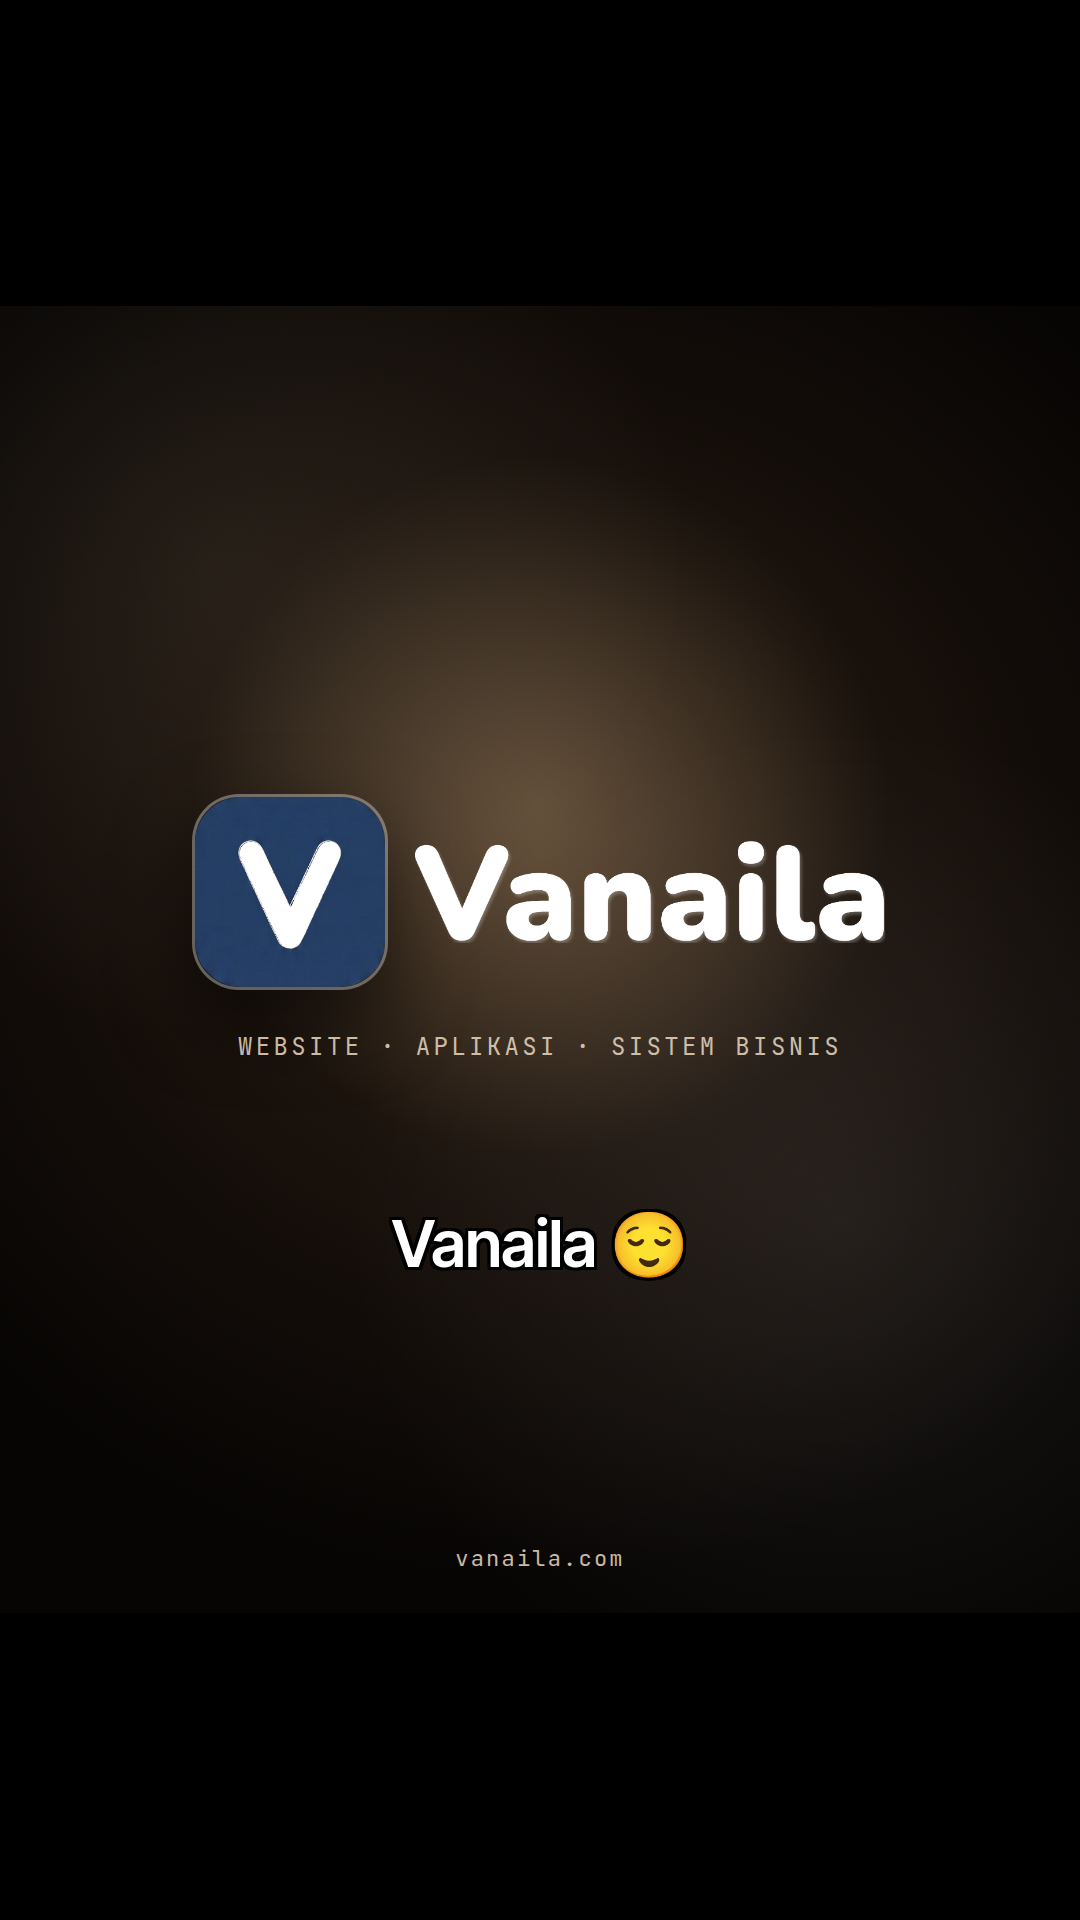
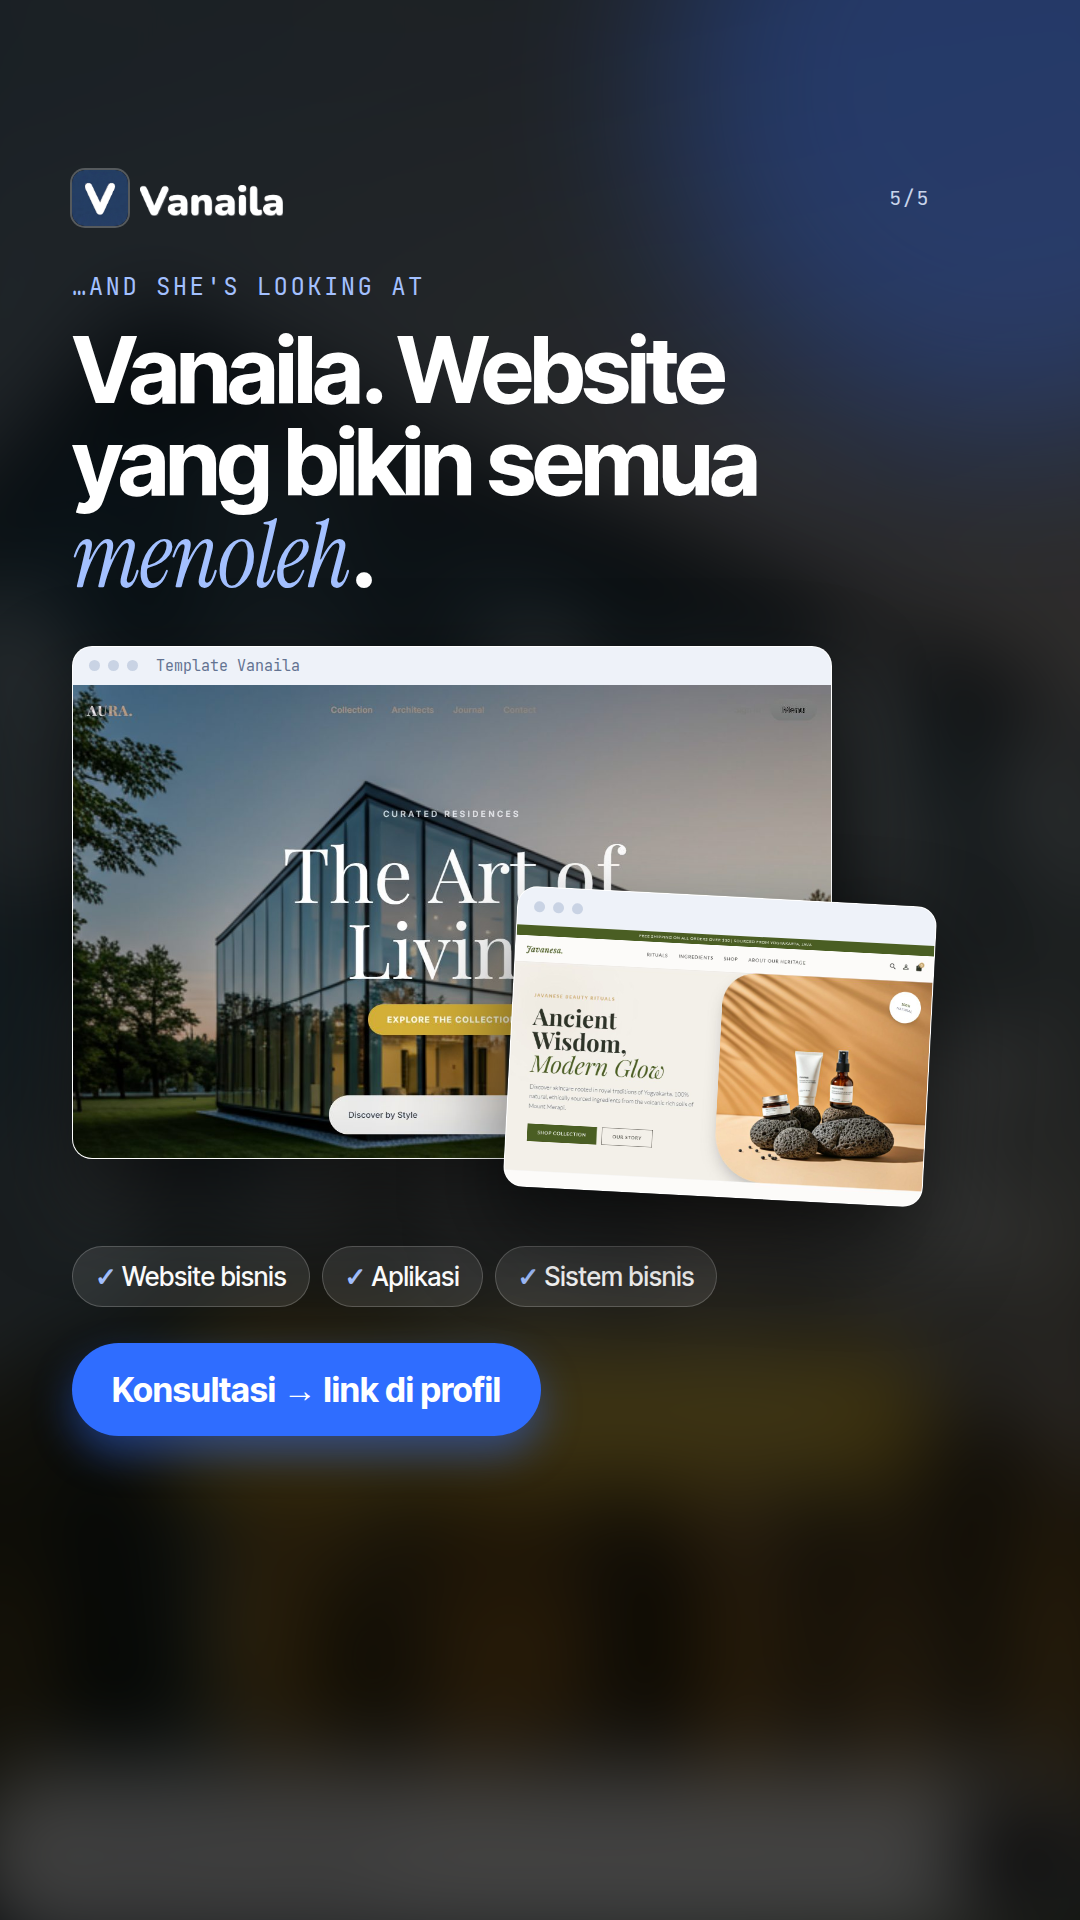
docs(marketing): restyle meme punchline slide in Vanaila brand style

diff --git a/docs/marketing/templates/meme-01-in-this-picture-s5.html b/docs/marketing/templates/meme-01-in-this-picture-s5.html
@@ -1,20 +1,39 @@
-<!doctype html><html><head><meta charset="utf-8"><meta name="size" content="1080x1920"><link rel="stylesheet" href="_brand.css"><style>
-html,body{width:1080px;height:1920px;background:#000}
-.frame{position:absolute;left:0;top:306px;width:1080px;height:1307px;overflow:hidden;
- background:radial-gradient(ellipse 70% 55% at 50% 42%,#3a2a1c 0%,#1a120c 45%,#070504 100%);display:flex;flex-direction:column;align-items:center;justify-content:center}
-.haze{position:absolute;inset:0;background:radial-gradient(circle at 78% 70%,rgba(255,255,255,.08),transparent 40%),radial-gradient(circle at 20% 20%,rgba(255,230,190,.08),transparent 35%)}
-.spot{position:absolute;width:760px;height:760px;border-radius:50%;background:radial-gradient(circle,rgba(255,220,170,.22),transparent 65%);top:120px}
-.logo{position:relative;display:flex;align-items:center;gap:30px;margin-top:-60px}
-.logo .lm{width:190px;height:190px;background:url(../assets/brand/mark.png) center/contain no-repeat;border-radius:44px;box-shadow:0 0 0 3px rgba(255,255,255,.35),0 30px 80px rgba(0,0,0,.6)}
-.logo .lw{width:470px;height:102px;background:url(../assets/brand/wordmark-white.png) left center/contain no-repeat}
-.tag{position:relative;margin-top:44px;font-family:'JetBrains Mono',monospace;font-size:24px;letter-spacing:.14em;text-transform:uppercase;color:#e9d9c2;opacity:.85}
-.meme{position:absolute;left:0;right:0;top:560px;text-align:center;font-family:'Inter Tight',sans-serif;font-weight:600;font-size:64px;color:#fff;letter-spacing:-.01em;
- text-shadow:-3px -3px 0 #000,3px -3px 0 #000,-3px 3px 0 #000,3px 3px 0 #000,0 3px 0 #000,0 -3px 0 #000,3px 0 0 #000,-3px 0 0 #000}
-.url{position:absolute;bottom:40px;font-family:'JetBrains Mono',monospace;font-size:22px;color:#cbb9a0;letter-spacing:.1em}
+<!doctype html><html lang="id"><head><meta charset="utf-8"><meta name="size" content="1080x1920"><link rel="stylesheet" href="_brand.css"><style>
+html,body{width:1080px;height:1920px}
+.post{width:1080px;height:1920px;padding:170px 150px 440px 72px;background:linear-gradient(170deg,#0e1a30 0%,#0b1426 55%,#132a57 100%);color:#fff}
+.post>.bgimg{position:absolute;inset:-40px;background:url('../../../public/templates-static/previews/aura-property.jpg') center/cover;filter:blur(40px) brightness(.28) saturate(1.1);transform:scale(1.1);z-index:0}
+.brand .lw{background-image:url(../assets/brand/wordmark-white.png)}
+.brand .lm{box-shadow:0 0 0 2px rgba(255,255,255,.25)}
+.body{flex:1;display:flex;flex-direction:column;justify-content:center}
+.k{font-family:'JetBrains Mono',monospace;font-size:24px;letter-spacing:.1em;text-transform:uppercase;color:var(--accent-soft)}
+.t{font-size:92px;line-height:1;letter-spacing:-.035em;font-weight:700;margin-top:22px}
+.t i{font-family:'Instrument Serif',Georgia,serif;font-weight:400;letter-spacing:-.01em;color:var(--accent-soft)}
+.stack{position:relative;height:560px;margin-top:44px;flex:none}
+.browser{position:absolute;border-radius:20px;overflow:hidden;background:#fff;box-shadow:0 40px 90px rgba(0,0,0,.55);border:1px solid rgba(255,255,255,.25)}
+.browser .bar{height:38px;display:flex;align-items:center;gap:8px;padding:0 16px;background:#eef2f9}
+.browser .bar i{width:11px;height:11px;border-radius:50%;background:#c9d3e4;display:block}
+.browser .bar span{margin-left:10px;font-family:'JetBrains Mono',monospace;font-size:15px;color:#637391}
+.browser img{display:block;width:100%;aspect-ratio:16/10;object-fit:cover;object-position:top}
+.b1{left:0;top:0;width:760px}
+.b2{right:0;top:250px;width:420px;transform:rotate(3deg)}
+.chips{margin-top:40px;display:flex;flex-wrap:wrap;gap:12px}
+.chip{padding:14px 22px;border-radius:999px;background:rgba(255,255,255,.1);border:1px solid rgba(255,255,255,.2);font-size:26px;font-weight:500}
+.chip::before{content:'✓  ';color:var(--accent-soft);font-weight:700}
+.cta{margin-top:36px;align-self:flex-start;padding:26px 40px;border-radius:999px;background:var(--accent);color:#fff;font-size:34px;font-weight:700;box-shadow:0 18px 40px rgba(47,109,255,.45)}
+.count{font-family:'JetBrains Mono',monospace;font-size:20px;letter-spacing:.08em;color:#c9d4ea}
 </style></head><body>
-<div class="frame"><div class="haze"></div><div class="spot"></div>
- <div class="logo" aria-label="Vanaila"><span class="lm"></span><span class="lw"></span></div>
- <div class="tag">Website · Aplikasi · Sistem bisnis</div>
- <div class="meme" style="top:auto;bottom:330px">Vanaila 😌</div>
- <div class="url">vanaila.com</div>
+<div class="post">
+  <div class="bgimg"></div>
+  <div class="glow" style="width:700px;height:700px;background:#2f6dff;right:-280px;top:-260px;opacity:.3"></div>
+  <div class="top"><div class="brand" aria-label="Vanaila"><span class="lm"></span><span class="lw"></span></div><div class="count">5/5</div></div>
+  <div class="body">
+    <div class="k">…and she's looking at</div>
+    <h1 class="t">Vanaila. Website yang bikin semua <i>menoleh</i>.</h1>
+    <div class="stack">
+      <div class="browser b1"><div class="bar"><i></i><i></i><i></i><span>Template Vanaila</span></div><img src="../../../public/templates-static/previews/aura-property.jpg"></div>
+      <div class="browser b2"><div class="bar"><i></i><i></i><i></i></div><img src="../../../public/templates-static/previews/javanesa.jpg"></div>
+    </div>
+    <div class="chips"><span class="chip">Website bisnis</span><span class="chip">Aplikasi</span><span class="chip">Sistem bisnis</span></div>
+    <div class="cta">Konsultasi → link di profil</div>
+  </div>
 </div></body></html>

diff --git a/docs/marketing/tiktok.md b/docs/marketing/tiktok.md
@@ -666,7 +666,7 @@ Working without AI vs with AI 😅 #3 hits different! AI helps you start, you fi
 2. "He's looking at another woman" (original image)
 3. "He's looking at her" (original image)
 4. "And she's looking at" (original image)
-5. **Vanaila** (our slide: logo + "Website · Aplikasi · Sistem bisnis" + "Vanaila 😌")
+5. **Vanaila** (our slide in the brand style: "…and she's looking at" → "Vanaila. Website yang bikin semua *menoleh*.", two template screenshots, Website · Aplikasi · Sistem bisnis, CTA "Konsultasi → link di profil")
 
 **Caption (ID)**
 ```
